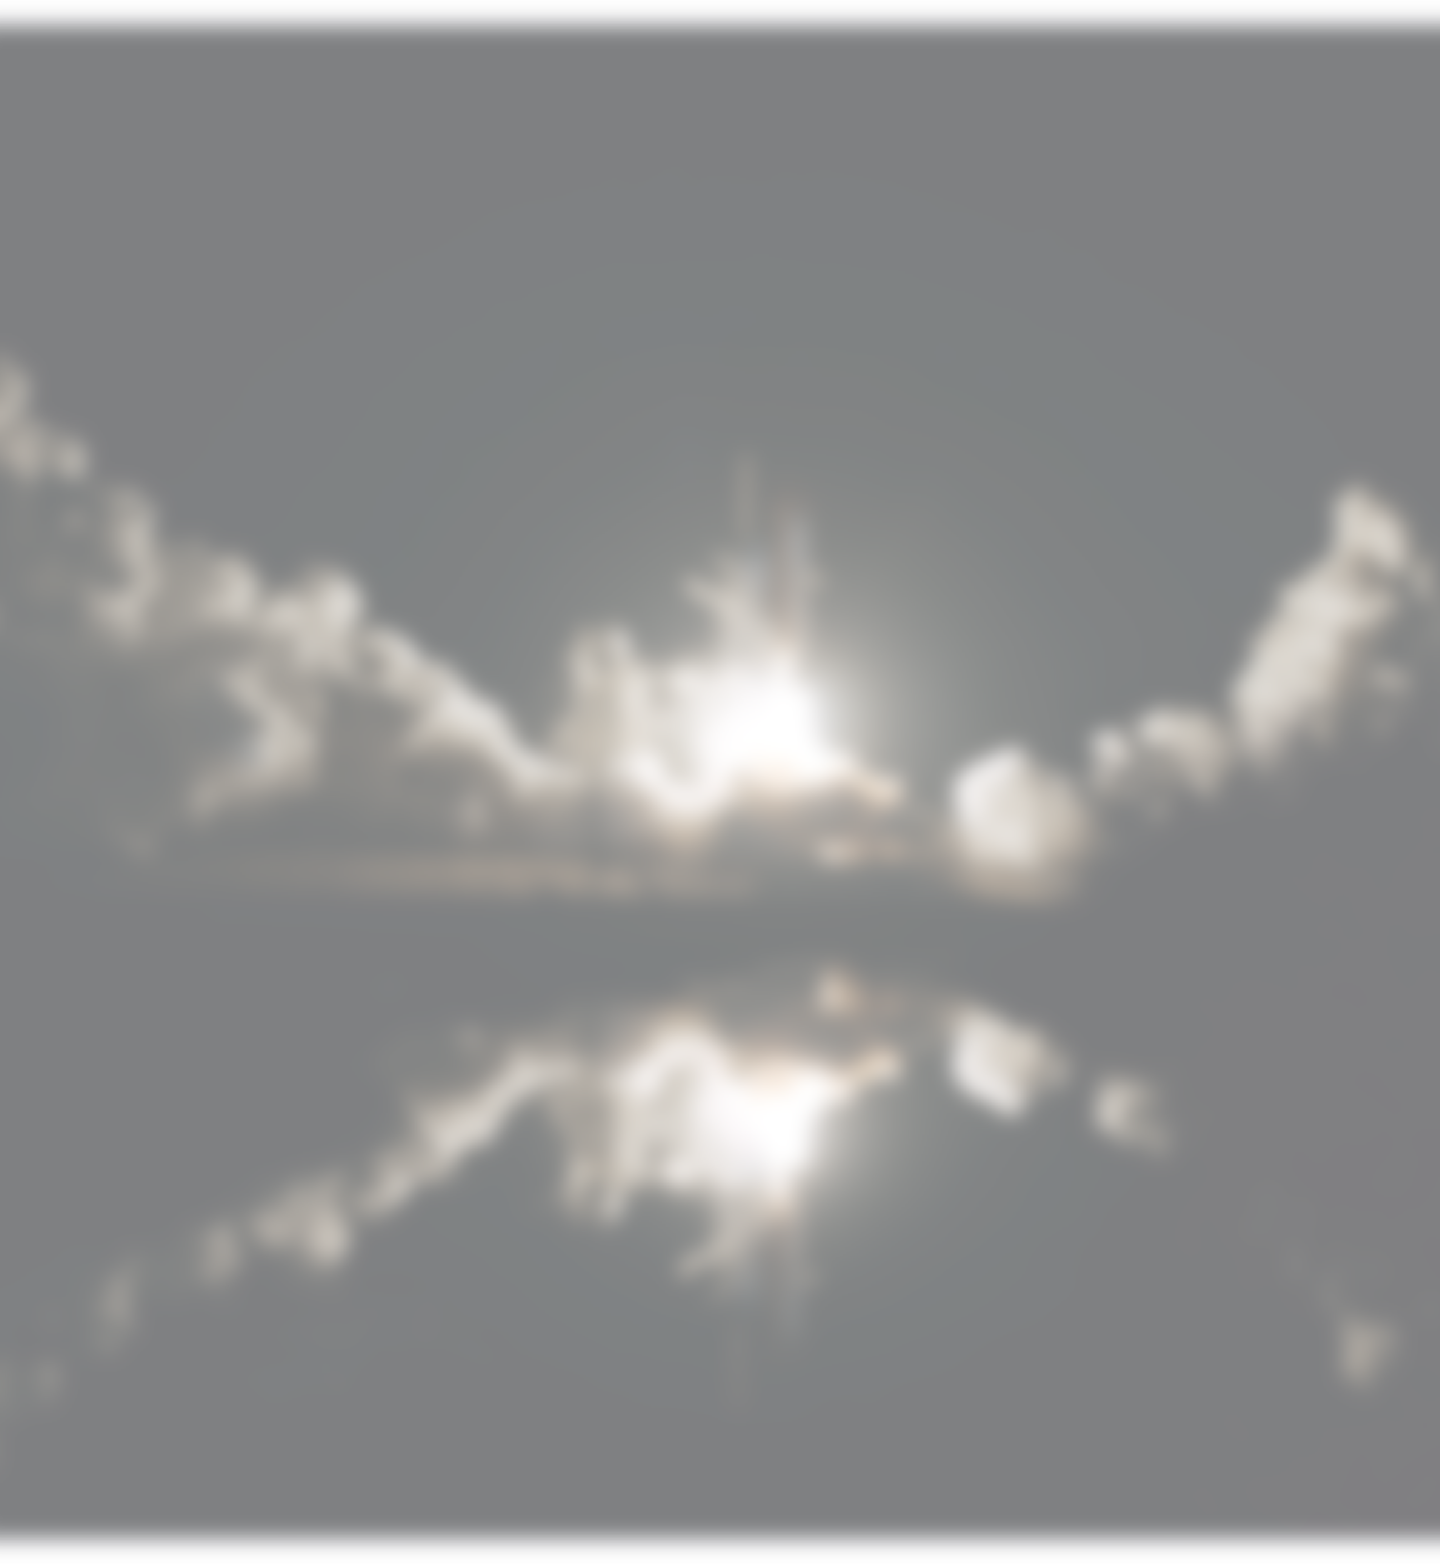
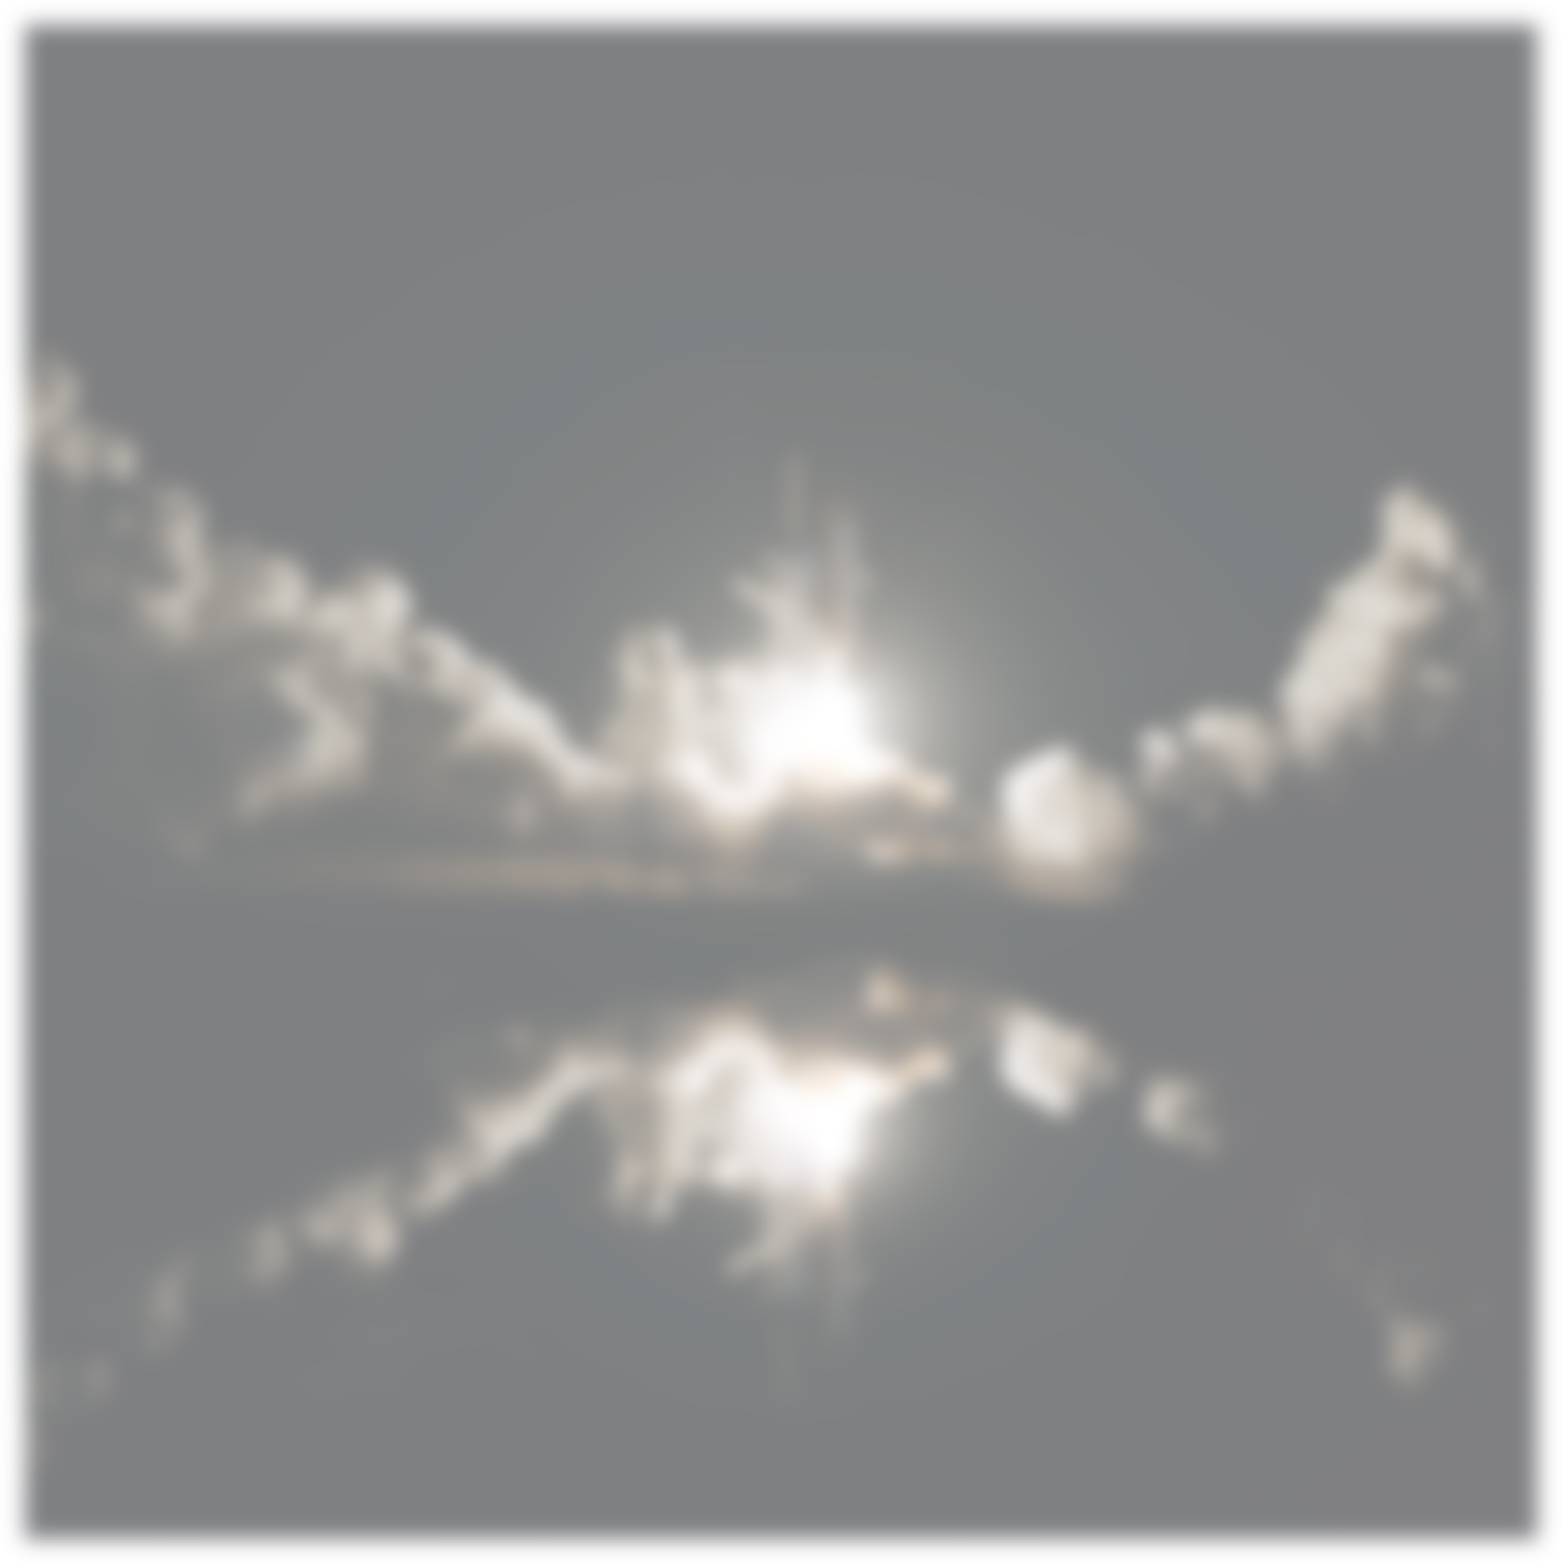
progress

diff --git a/page.html b/page.html
@@ -22,8 +22,8 @@
     <meta property="og:url" content="https://Schubrakede.de/">
     <script src="//cdnjs.cloudflare.com/ajax/libs/jquery/2.1.3/jquery.min.js"></script>
 
-    <link rel="stylesheet" href="style.css">
     <link rel="stylesheet" href="patterns.css">
+    <link rel="stylesheet" href="style.css">
     <link href="https://fonts.googleapis.com/css?family=Cabin:400,700" rel="stylesheet">
 </head>
 
@@ -74,6 +74,11 @@
                 </div>
                 <div class="introduction_info">
                     <h2 class="introduction_headline sr-headline">Ich bin Lasse!</h2>
+
+                    <p class="introduction_text sr-paragraph">
+                        89er Jahrgang, leb mit meiner Frau Kristina und unserem Sohn Cosmo in Hamburg auf St. Pauli.
+
+                    </p>
                     <p class="introduction_text sr-paragraph">
                         Nachdem ich als Mediengestalter in den hirachischen Hallen eines Plattenlabes ins Berufsleben
                         gestartet
@@ -106,7 +111,62 @@
             </div>
         </section>
 
+        <section class="costs bgm bgm-firework">
 
+            <h2 class="sr-headline">Unsere Kosten</h2>
+            <p class="sr-paragraph">Da Pay as you Feel + Spenden ohne Anhaltspunkt erstmal
+                <br> seltsam ist gibt es hier einen kleinen Überblick <br>
+                wie hoch denn überhaupt unsere monatlichen Kosten sind.</p>
+            <div class="costs_graph">
+                <div class="costs_graph-private-amount">
+                    2500€
+                </div>
+                <div class="costs_graph-business-amount">
+                    1095€
+
+                </div>
+                <div class="costs_graph-private-text">
+                    <h3 class="sr-headline">
+                        Privat
+                    </h3>
+                    <p class="paragraph">
+                        Grob was es so brauch für ein Leben mit Frau, Kind und 2 Katzen in Hamburg St. Pauli.
+
+                        Was nicht Teil davon ist: Lebensmittel, Windeln, Kinderklamoten, Klamotten, Benzin uns
+                        sonstiger Luxus
+                    </p>
+                </div>
+                <div class="costs_graph-business-text">
+                    <h3 class="sr-headline">Freiberuflichkeit</h3>
+                    <p class="paragraph">
+                        <ul class="costs_graph-business-list">
+                            <li>Github <b style="font-size: 1.4em;"> 6€ </b></li>
+                            <li>Dropbox <b style="font-size: 1.4em;"> 9€ </b></li>
+                            <li>Adobe Cloud <b style="font-size: 1.4em;"> 50€ </b></li>
+                            <li>Epidemic Sound <b style="font-size: 1.4em;"> 13€ </b></li>
+                            <li>Steuerberater <b style="font-size: 1.4em;"> 105€ </b></li>
+                            <li>Krankenversicherung <b style="font-size: 1.4em;"> 800€ </b></li>
+                            <li>Domains <b style="font-size: 1.4em;"> 35€ </b></li>
+                            <li>Öffis <b style="font-size: 1.4em;"> 90€ </b></li>
+
+                        </ul>
+
+                        Was damit noch nicht abgedeckt ist: Laptop, Kamera + Objektive + Equipment & Streaming Zubehör
+
+
+                    </p>
+                </div>
+            </div>
+        </section>
+        <section class="how bgm bgm-space">
+            <h2 class="sr-headline">Wie das geht?</h2>
+            <p class="sr-paragraph how-text">
+                Alles was du tun musst ist mich während ich im Stream bin bei Skype anzurufen und alles weitere gucken
+                wir dann.
+            </p>
+            <a href="https://join.skype.com/invite/mZNheZ0TlTSL" class="sr-button sr-button--skype">Bei Skype
+                Hinzufügen</a>
+        </section>
         <footer>
 
 

diff --git a/style.css b/style.css
@@ -12,7 +12,7 @@
 }
 
 body {
-  background: #070a13;
+  background: var(--sr-dark);
   color: white;
   margin: 0;
   font-size: 20px;
@@ -140,4 +140,80 @@ header {
   display: grid;
   grid-template-columns: 300px 300px;
   grid-gap: calc(var(--sr-base) * 8);
+}
+
+/* Costs */
+
+.costs {
+  text-align: center;
+  padding: calc(var(--sr-base) * 50) 0;
+}
+
+.costs_graph {
+  justify-content: center;
+  display: grid;
+  grid-template-columns: 700px 300px 400px;
+  grid-template-rows: auto auto;
+}
+
+.costs_graph-private-text {
+  grid-column: 1;
+  text-align: right;
+  padding: calc(var(--sr-base) * 5);
+}
+
+.costs_graph-private-amount {
+  border-radius: 20px 0 0 20px;
+  padding: calc(var(--sr-base) * 2) calc(var(--sr-base) * 5);
+  display: flex;
+  justify-content: flex-end;
+  align-items: center;
+  border: 5px solid white;
+
+  font-size: 40px;
+  border-right: none;
+}
+.costs_graph-business-amount {
+  border-radius: 0 20px 20px 0;
+
+  display: flex;
+  justify-content: flex-start;
+  padding: calc(var(--sr-base) * 2) calc(var(--sr-base) * 5);
+
+  background: white;
+  color: var(--sr-dark);
+  font-size: 40px;
+  border: 5px solid white;
+  text-align: left;
+}
+
+.costs_graph-business-text {
+  padding: calc(var(--sr-base) * 5);
+  text-align: left;
+}
+
+.costs_graph-business-list {
+  padding: 0;
+  font-size: 20px;
+  text-align: left;
+  list-style-type: none;
+}
+
+/* how */
+
+.how {
+  padding: calc(var(--sr-base) * 50) 0;
+  display: flex;
+  justify-content: center;
+  align-items: center;
+  flex-direction: column;
+  text-align: center;
+}
+
+.how-text {
+  margin: 0;
+  margin-bottom: calc(var(--sr-base) * 8);
+  font-size: 40px;
+  max-width: 800px;
+  line-height: 52px;
 }

diff --git a/patterns.css b/patterns.css
@@ -2,6 +2,7 @@
   --sr-base: 4px;
   --sr-font-weight-regular: 400;
   --sr-font-weight-bold: 700;
+  --sr-dark: #080a11;
 
   --twitch-purple: #6441a4;
   --skype-blue: #02abea;
@@ -11,14 +12,23 @@
 
 /* Main Background mesh */
 .bgm {
-  background-size: cover;
   background-position: center center;
-  background-blend-mode: screen;
   background-repeat: no-repeat;
+  background-size: auto 100%;
+  background-blend-mode: lighten;
+  background-color: var(--sr-dark);
 }
 
 .bgm-fire {
   background-image: url("/img/bg/fire.png");
+}
+
+.bgm-firework {
+  background-image: url("/img/bg/firework.png");
+}
+
+.bgm-space {
+  background-image: url("/img/bg/spacestation.png");
 }
 /* Button */
 
@@ -58,6 +68,10 @@
 /* Headlines */
 
 h2.sr-headline {
+  font-size: 50px;
+}
+
+h3.sr-headline {
   font-size: 40px;
 }
 
